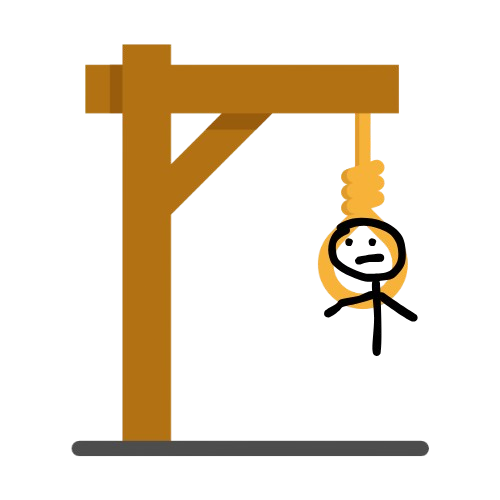
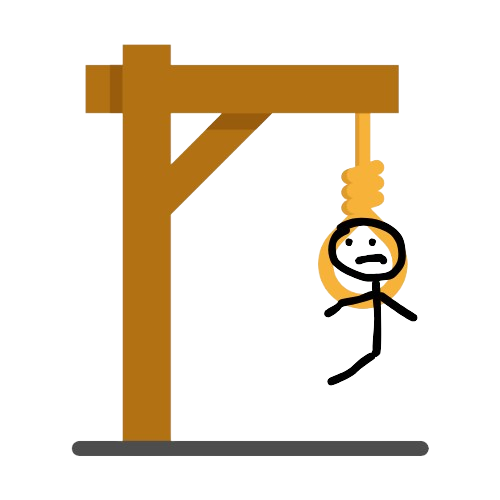
Renomeando clear_page -> clear_frame. Fazendo a implmentação da nova função e adequando os nomes das imagens ao código.

diff --git a/forca/game.py b/forca/game.py
@@ -4,6 +4,7 @@ from PIL import Image, ImageTk
 import webbrowser
 import json
 import random
+import time
 
 path = Path(__file__).parent
 
@@ -12,6 +13,7 @@ class GameScreen:
     def __init__(self, window):
         # Pertence a função return_json
         self.only_once_json = True
+        self.fails_counter = 0
 
         self.window = window
         self.color_bg = "#F2ECCE"
@@ -23,7 +25,6 @@ class GameScreen:
         self.first_layer()
         self.second_layer()
         self.thirty_layer()
-        self.fails_counter = 0
     
 
     # Função que carrega a imagem principal da tela
@@ -95,9 +96,12 @@ class GameScreen:
             button.config(background="#A6E07F")
             self.update_word(self.word, letter=letter)
         else:
-            self.fails_counter += 1
             self.hangman(img_path=path / "imgs" / f"fail_{self.fails_counter}.png")
             button.config(background="#E07F7F")
+            if self.fails_counter == 5:
+            # Espera 1 segundo antes de limpar a tela
+                self.window.after(3000, self.clear_frame)
+            self.fails_counter += 1
     
     
     # Primeira camadas de letras
@@ -140,7 +144,7 @@ class GameScreen:
 
     
     # Limpa a tela
-    def clear_page(self):
+    def clear_frame(self):
         for widget in self.window.winfo_children():
             widget.destroy()
 
